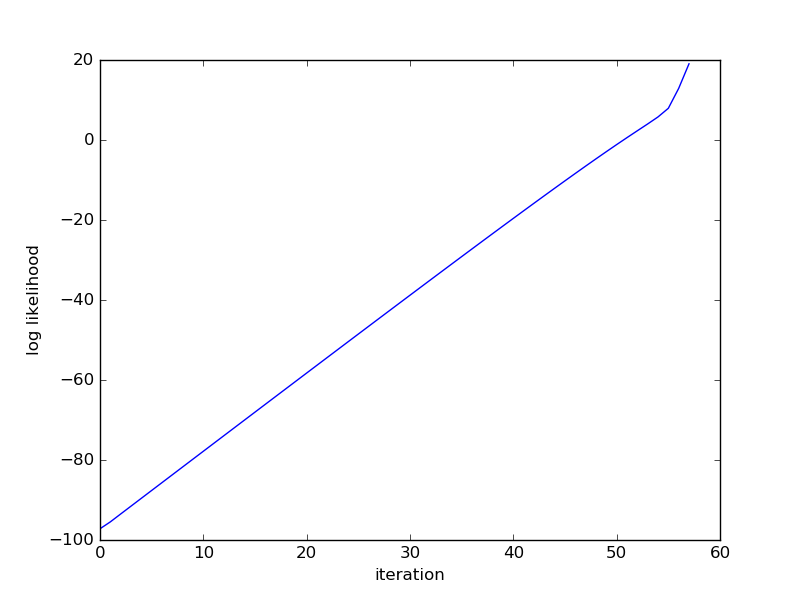
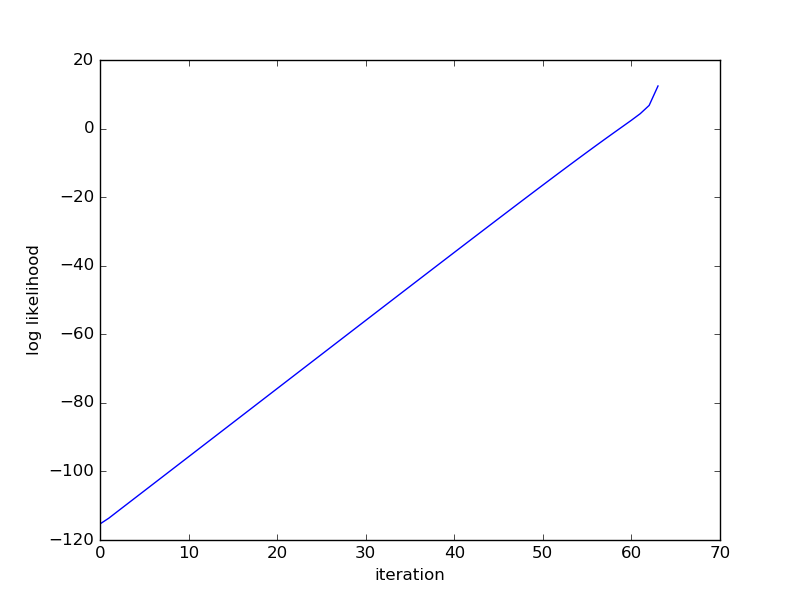
update

diff --git a/dataGeneration/dataGeneration.py b/dataGeneration/dataGeneration.py
@@ -3,11 +3,7 @@ __author__ = 'Haohan Wang'
 import numpy as np
 import scipy
 
-def generateSyntheticData(seed, n, p, d, g, sig, sigC, visualFlag=False):
-    plt = None
-    if visualFlag:
-        from matplotlib import pyplot as plt
-
+def generateSyntheticData(seed, n, p, d, g, sig, sigC):
     np.random.seed(seed)
 
     dense = d
@@ -29,24 +25,11 @@ def generateSyntheticData(seed, n, p, d, g, sig, sigC, visualFlag=False):
     X = np.array(X)
     print X.shape
 
-    if visualFlag:
-        plt.imshow(X)
-        plt.show()
-
     Z = []
     for i in range(g):
         for j in range(sample):
             Z.append(center[i,:]+np.random.normal(0, 0.1, size=[p]))
     Z = np.array(Z)
-
-    # Z = []
-    # for i in range(g):
-    #     m = np.zeros([g])
-    #     m[i] = 1
-    #     for j in range(sample):
-    #         Z.append(m)
-    # Z = np.array(Z)
-
 
     featureNum = int(p * dense)
     idx = scipy.random.randint(0,p,featureNum).astype(int)
@@ -57,41 +40,14 @@ def generateSyntheticData(seed, n, p, d, g, sig, sigC, visualFlag=False):
 
     Cy = np.dot(Z, Z.T)
 
-    if visualFlag:
-        plt.imshow(Cy)
-        plt.show()
-
     causal = np.array(zip(idx, w))
 
     yK = np.random.multivariate_normal(yp, sigC * Cy, size=1)
     yK = yK.reshape(yK.shape[1])
-    yK = yp
-
-    # v = np.random.normal(size=[g, 1])
-    # yK = yp + np.dot(Z, v).reshape(yp.shape[0])*wz
-
-    if visualFlag:
-        index = np.arange(yK.shape[0])
-        plt.scatter(index, yK)
-        plt.show()
 
     np.savetxt('../data/X.csv', X, delimiter=',')
     np.savetxt('../data/y.csv', yK, delimiter=',')
     np.savetxt('../data/Z.csv', Z, delimiter=',')
-
-    if visualFlag:
-        from mpl_toolkits.mplot3d import Axes3D
-        from sklearn.decomposition import PCA
-        clf = PCA(n_components=2)
-        X = clf.fit_transform(X)
-        fig = plt.figure(dpi=100)
-        ax = fig.add_subplot(111, projection='3d')
-        for i in range(g):
-            ax.scatter(X[i*sample:(i+1)*sample,0],X[i*sample:(i+1)*sample,1],yK[i*sample:(i+1)*sample],marker="o")
-        ax.set_xlabel('1st PC of X')
-        ax.set_ylabel('2nd PC of X')
-        ax.set_zlabel('y')
-        plt.show()
 
     beta = np.zeros([p])
     beta[causal[:,0].astype(int)] = causal[:,1]
@@ -99,4 +55,4 @@ def generateSyntheticData(seed, n, p, d, g, sig, sigC, visualFlag=False):
     np.savetxt('../data/beta.csv', beta, delimiter=',')
 
 if __name__ == '__main__':
-    generateSyntheticData(seed=0, n=100, p=2, d=0.5, g=5, sig=1, sigC=0.1, visualFlag=True)
+    generateSyntheticData(seed=0, n=100, p=2, d=0.5, g=5, sig=1, sigC=0.1)

diff --git a/LMM.py b/LMM.py
@@ -84,8 +84,10 @@ if __name__ == '__main__':
     plt.plot(x, lls)
     plt.xlabel('iteration')
     plt.ylabel('log likelihood')
-    plt.show()
+    plt.savefig('figs/ll.png')
+    plt.clf()
     plt.plot(x, bs)
     plt.xlabel('iteration')
     plt.ylabel('mse')
-    plt.show()
+    plt.savefig('figs/mse.png')
+    plt.clf()
